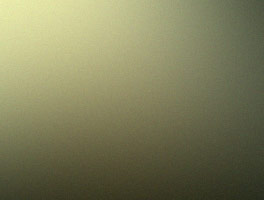
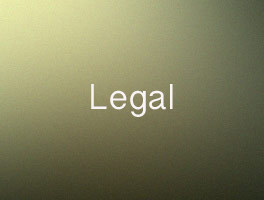
Linkbox Pages.

Changed region(s): [[0.3333, 0.42, 0.6667, 0.6]]

diff --git a/index.html b/index.html
@@ -37,25 +37,26 @@
 		-->
 				<!-- Portfolio -->
 			<article class="container box style2">
-				<div class="inner gallery">
+			<a href="" name = "banner"></a>
+				<div class="inner ">
 					<div class="row 0%">
-						<div class="3u 12u(mobile)"><a href="images/fulls/01.jpg" class="image fit"><img src="images/thumbs/01.jpg" alt="" title="Ad infinitum" /></a></div>
-						<div class="3u 12u(mobile)"><a href="images/fulls/02.jpg" class="image fit"><img src="images/thumbs/02.jpg" alt="" title="Dressed in Clarity" /></a></div>
-						<div class="3u 12u(mobile)"><a href="images/fulls/03.jpg" class="image fit"><img src="images/thumbs/03.jpg" alt="" title="Raven" /></a></div>
-						<div class="3u 12u(mobile)"><a href="images/fulls/04.jpg" class="image fit"><img src="images/thumbs/04.jpg" alt="" title="I'll have a cup of Disneyland, please" /></a></div>
+						<div class="3u 12u(mobile)"><a href="#dailVisits" class="image fit"><img src="images/thumbs/01.jpg" alt="" title="Ad infinitum" /></a></div>
+						<div class="3u 12u(mobile)"><a href="#hr" class="image fit"><img src="images/thumbs/02.jpg" alt="" title="Dressed in Clarity" /></a></div>
+						<div class="3u 12u(mobile)"><a href="#production" class="image fit"><img src="images/thumbs/03.jpg" alt="" title="Raven" /></a></div>
+						<div class="3u 12u(mobile)"><a href="#education" class="image fit"><img src="images/thumbs/04.jpg" alt="" title="I'll have a cup of Disneyland, please" /></a></div>
 					</div>
 					<div class="row 0%">
-						<div class="3u 12u(mobile)"><a href="images/fulls/05.jpg" class="image fit"><img src="images/thumbs/05.jpg" alt="" title="Cherish" /></a></div>
-						<div class="3u 12u(mobile)"><a href="images/fulls/06.jpg" class="image fit"><img src="images/thumbs/06.jpg" alt="" title="Different." /></a></div>
-						<div class="3u 12u(mobile)"><a href="images/fulls/07.jpg" class="image fit"><img src="images/thumbs/07.jpg" alt="" title="History was made here" /></a></div>
-						<div class="3u 12u(mobile)"><a href="images/fulls/08.jpg" class="image fit"><img src="images/thumbs/08.jpg" alt="" title="People come and go and walk away" /></a></div>
+						<div class="3u 12u(mobile)"><a href="#it" class="image fit"><img src="images/thumbs/05.jpg" alt="" title="Cherish" /></a></div>
+						<div class="3u 12u(mobile)"><a href="#systemreport" class="image fit"><img src="images/thumbs/06.jpg" alt="" title="Different." /></a></div>
+						<div class="3u 12u(mobile)"><a href="#legal" class="image fit"><img src="images/thumbs/07.jpg" alt="" title="History was made here" /></a></div>
+						<div class="3u 12u(mobile)"><a href="#admin" class="image fit"><img src="images/thumbs/08.jpg" alt="" title="People come and go and walk away" /></a></div>
 					</div>
 				</div>
 			</article>
 
-		<!-- Feature 1 -->
-			<article id="first" class="container box style1 right">
-				<a href="#" class="image fit"><img src="images/pic01.jpg" alt="" /></a>
+		<!-- Group 1 -->
+			<article id="first" class="container box style1 right" >
+				<a class="image fit" name = "dailVisits"><img src="images/pic01.jpg" alt="" /></a>
 				<div class="inner">
 					<header>
 						<h2>Daily Visits</h2>
@@ -74,18 +75,129 @@
 				</div>
 			</article>
 
-		<!-- Feature 2 -->
+		<!-- Group 2 -->
 			<article class="container box style1 left">
-				<a href="#" class="image fit"><img src="images/pic02.jpg" alt="" /></a>
+				<a href="#" class="image fit" name = "hr"><img src="images/pic02.jpg" alt="" /></a>
+				<header>
+					<h2>HR</h2>
+				</header>
+				<div class = "link-contant">
+						<div class = "col-content">
+							<div class = "col-list"><a href="#" class="icon fa-envelope"></a><a href=""> Hris</a></div>
+							<div class = "col-list"><a href="#" class="icon fa-shopping-cart"></a><a href=""> Hr</a></div>
+							
+						</div>
+						<div class = "col-content">
+							
+							<div class = "col-list"><a href="#" class="icon fa-user"></a><a href=""> Question Box</a></div>
+							<div class = "col-list"><a href="#" class="icon fa-comments"></a><a href=""> Guest</a></div>
+						</div>
+					</div>
+			</article>
+
+		<!-- Group 3 -->
+			<article id="first" class="container box style1 right" >
+				<a class="image fit" name = "production"><img src="images/pic03.jpg" alt="" /></a>
 				<div class="inner">
 					<header>
-						<h2>Mollis posuere<br />
-						lectus lacus</h2>
+						<h2>Production</h2>
 					</header>
-					<p>Rhoncus mattis egestas sed fusce sodales rutrum et etiam ullamcorper. Etiam egestas scelerisque ac duis magna lorem ipsum dolor.</p>
+					<div class = "link-contant">
+						<div class = "col-content">
+							<div class = "col-list"><a href="#" class="icon fa-envelope"></a><a href=""> Confluence</a></div>
+							<div class = "col-list"><a href="#" class="icon fa-user"></a><a href=""> Show Portal</a></div>
+							<div class = "col-list"><a href="#" class="icon fa-comments"></a><a href=""> Shotgun</a></div>
+						</div>
+						<div class = "col-content">
+							<div class = "col-list"><a href="#" class="icon fa-shopping-cart"></a><a href=""> Timesheet</a></div>
+							<div class = "col-list"><a href="#" class="icon fa-camera"></a><a href=""> Approval</a></div>
+							<div class = "col-list"><a href="#" class="icon fa-camera"></a><a href=""> Schedule</a></div>
+						</div>
+					</div>
 				</div>
 			</article>
 
+		<!-- Feature 2 -->
+			<article class="container box style1 left">
+				<a href="#" class="image fit" name = "education"><img src="images/pic04.jpg" alt="" /></a>
+				<header>
+					<h2>Education</h2>
+				</header>
+				<div class = "link-contant">
+						<div class = "col-content">
+							<div class = "col-list"><a href="#" class="icon fa-envelope"></a><a href=""> EDU Library</a></div>
+							<div class = "col-list"><a href="#" class="icon fa-shopping-cart"></a><a href=""> EDU SYS</a></div>
+							
+						</div>
+					</div>
+			</article>
+
+		<!-- Feature 1 -->
+			<article id="first" class="container box style1 right" >
+				<a class="image fit" name = "it"><img src="images/pic05.jpg" alt="" /></a>
+				<div class="inner">
+					<header>
+						<h2>IT</h2>
+					</header>
+					<div class = "link-contant">
+						<div class = "col-content">
+							<div class = "col-list"><a href="#" class="icon fa-envelope"></a><a href=""> Password</a></div>
+							<div class = "col-list"><a href="#" class="icon fa-user"></a><a href=""> HPRG</a></div>
+						</div>
+						<div class = "col-content">
+							<div class = "col-list"><a href="#" class="icon fa-shopping-cart"></a><a href=""> System Admin</a></div>
+							<div class = "col-list"><a href="#" class="icon fa-camera"></a><a href=""> Permission</a></div>
+						</div>
+					</div>
+				</div>
+			</article>
+
+		<!-- Feature 2 -->
+			<article class="container box style1 left">
+				<a href="#" class="image fit" name = "systemreport"><img src="images/pic06.jpg" alt="" /></a>
+				<header>
+					<h2>System Report</h2>
+				</header>
+				<div class = "link-contant">
+						<div class = "col-content">
+							<div class = "col-list"><a href="#" class="icon fa-envelope"></a><a href=""> Dashboard</a></div>
+							<div class = "col-list"><a href="#" class="icon fa-shopping-cart"></a><a href=""> Render</a></div>
+							<div class = "col-list"><a href="#" class="icon fa-comments"></a><a href=""> Tractor</a></div>
+						</div>
+						<div class = "col-content">
+							
+							<div class = "col-list"><a href="#" class="icon fa-user"></a><a href=""> MyDBR</a></div>
+						</div>
+					</div>
+			</article>
+
+		<!-- Feature 1 -->
+			<article id="first" class="container box style1 right" >
+				<a class="image fit" name = "legal"><img src="images/pic07.jpg" alt="" /></a>
+				<div class="inner">
+					<header>
+						<h2>Legal</h2>
+					</header>
+					<div class = "link-contant">
+						<div class = "col-content">
+							<div class = "col-list"><a href="#" class="icon fa-envelope"></a><a href=""> Legal System</a></div>
+						</div>
+					</div>
+				</div>
+			</article>
+
+		<!-- Feature 2 -->
+			<article class="container box style1 left">
+				<a href="#" class="image fit" name = "admin"><img src="images/pic08.jpg" alt="" /></a>
+				<header>
+					<h2>Admin</h2>
+				</header>
+				<div class = "link-contant">
+						<div class = "col-content">
+							<div class = "col-list"><a href="#" class="icon fa-envelope"></a><a href=""> Badge</a></div>
+						</div>
+					</div>
+			</article>
 
 
 		<!-- Contact 
@@ -281,7 +393,7 @@
 				</ul>
 			</div>
 		</section>
-
+		<div class="actGotop"><a href="javascript:;" title="返回顶部"></a></div>
 		<!-- Scripts -->
 			<script src="assets/js/jquery.min.js"></script>
 			<script src="assets/js/jquery.scrolly.min.js"></script>

diff --git a/assets/css/main.css b/assets/css/main.css
@@ -2549,5 +2549,10 @@
 			text-align: left;
 			display: inline-block;
 			vertical-align: top;
-			width: 120px;
+			margin-right: 20px;
 		}
+		.actGotop{position:fixed;_position:absolute;bottom:100px;right:50px;width:150px;height:195px;display:none;}
+
+		.actGotop a,.actGotop a:link{width:150px;height:195px;display:inline-block;background:url(../../images/blog7year_gotop.png) no-repeat;_background:url(images/blog7year_gotop.gif) no-repeat;outline:none;}
+
+		.actGotop a:hover{background:url(../../images/blog7year_gotopd.gif) no-repeat;outline:none;}

diff --git a/assets/js/main.js b/assets/js/main.js
@@ -26,6 +26,26 @@
 		mobile: '(max-width: 736px)'
 	});
 
+	//goTotop
+		$(window).scroll(function() {		
+
+		if($(window).scrollTop() >= 100){
+
+			$('.actGotop').fadeIn(300); 
+
+		}else{    
+
+			$('.actGotop').fadeOut(300);    
+
+		}  
+
+	});
+
+	$('.actGotop').click(function(){
+
+	$('html,body').animate({scrollTop: '0px'}, 800);});	
+	//
+
 	$(function() {
 
 		var	$window = $(window),
